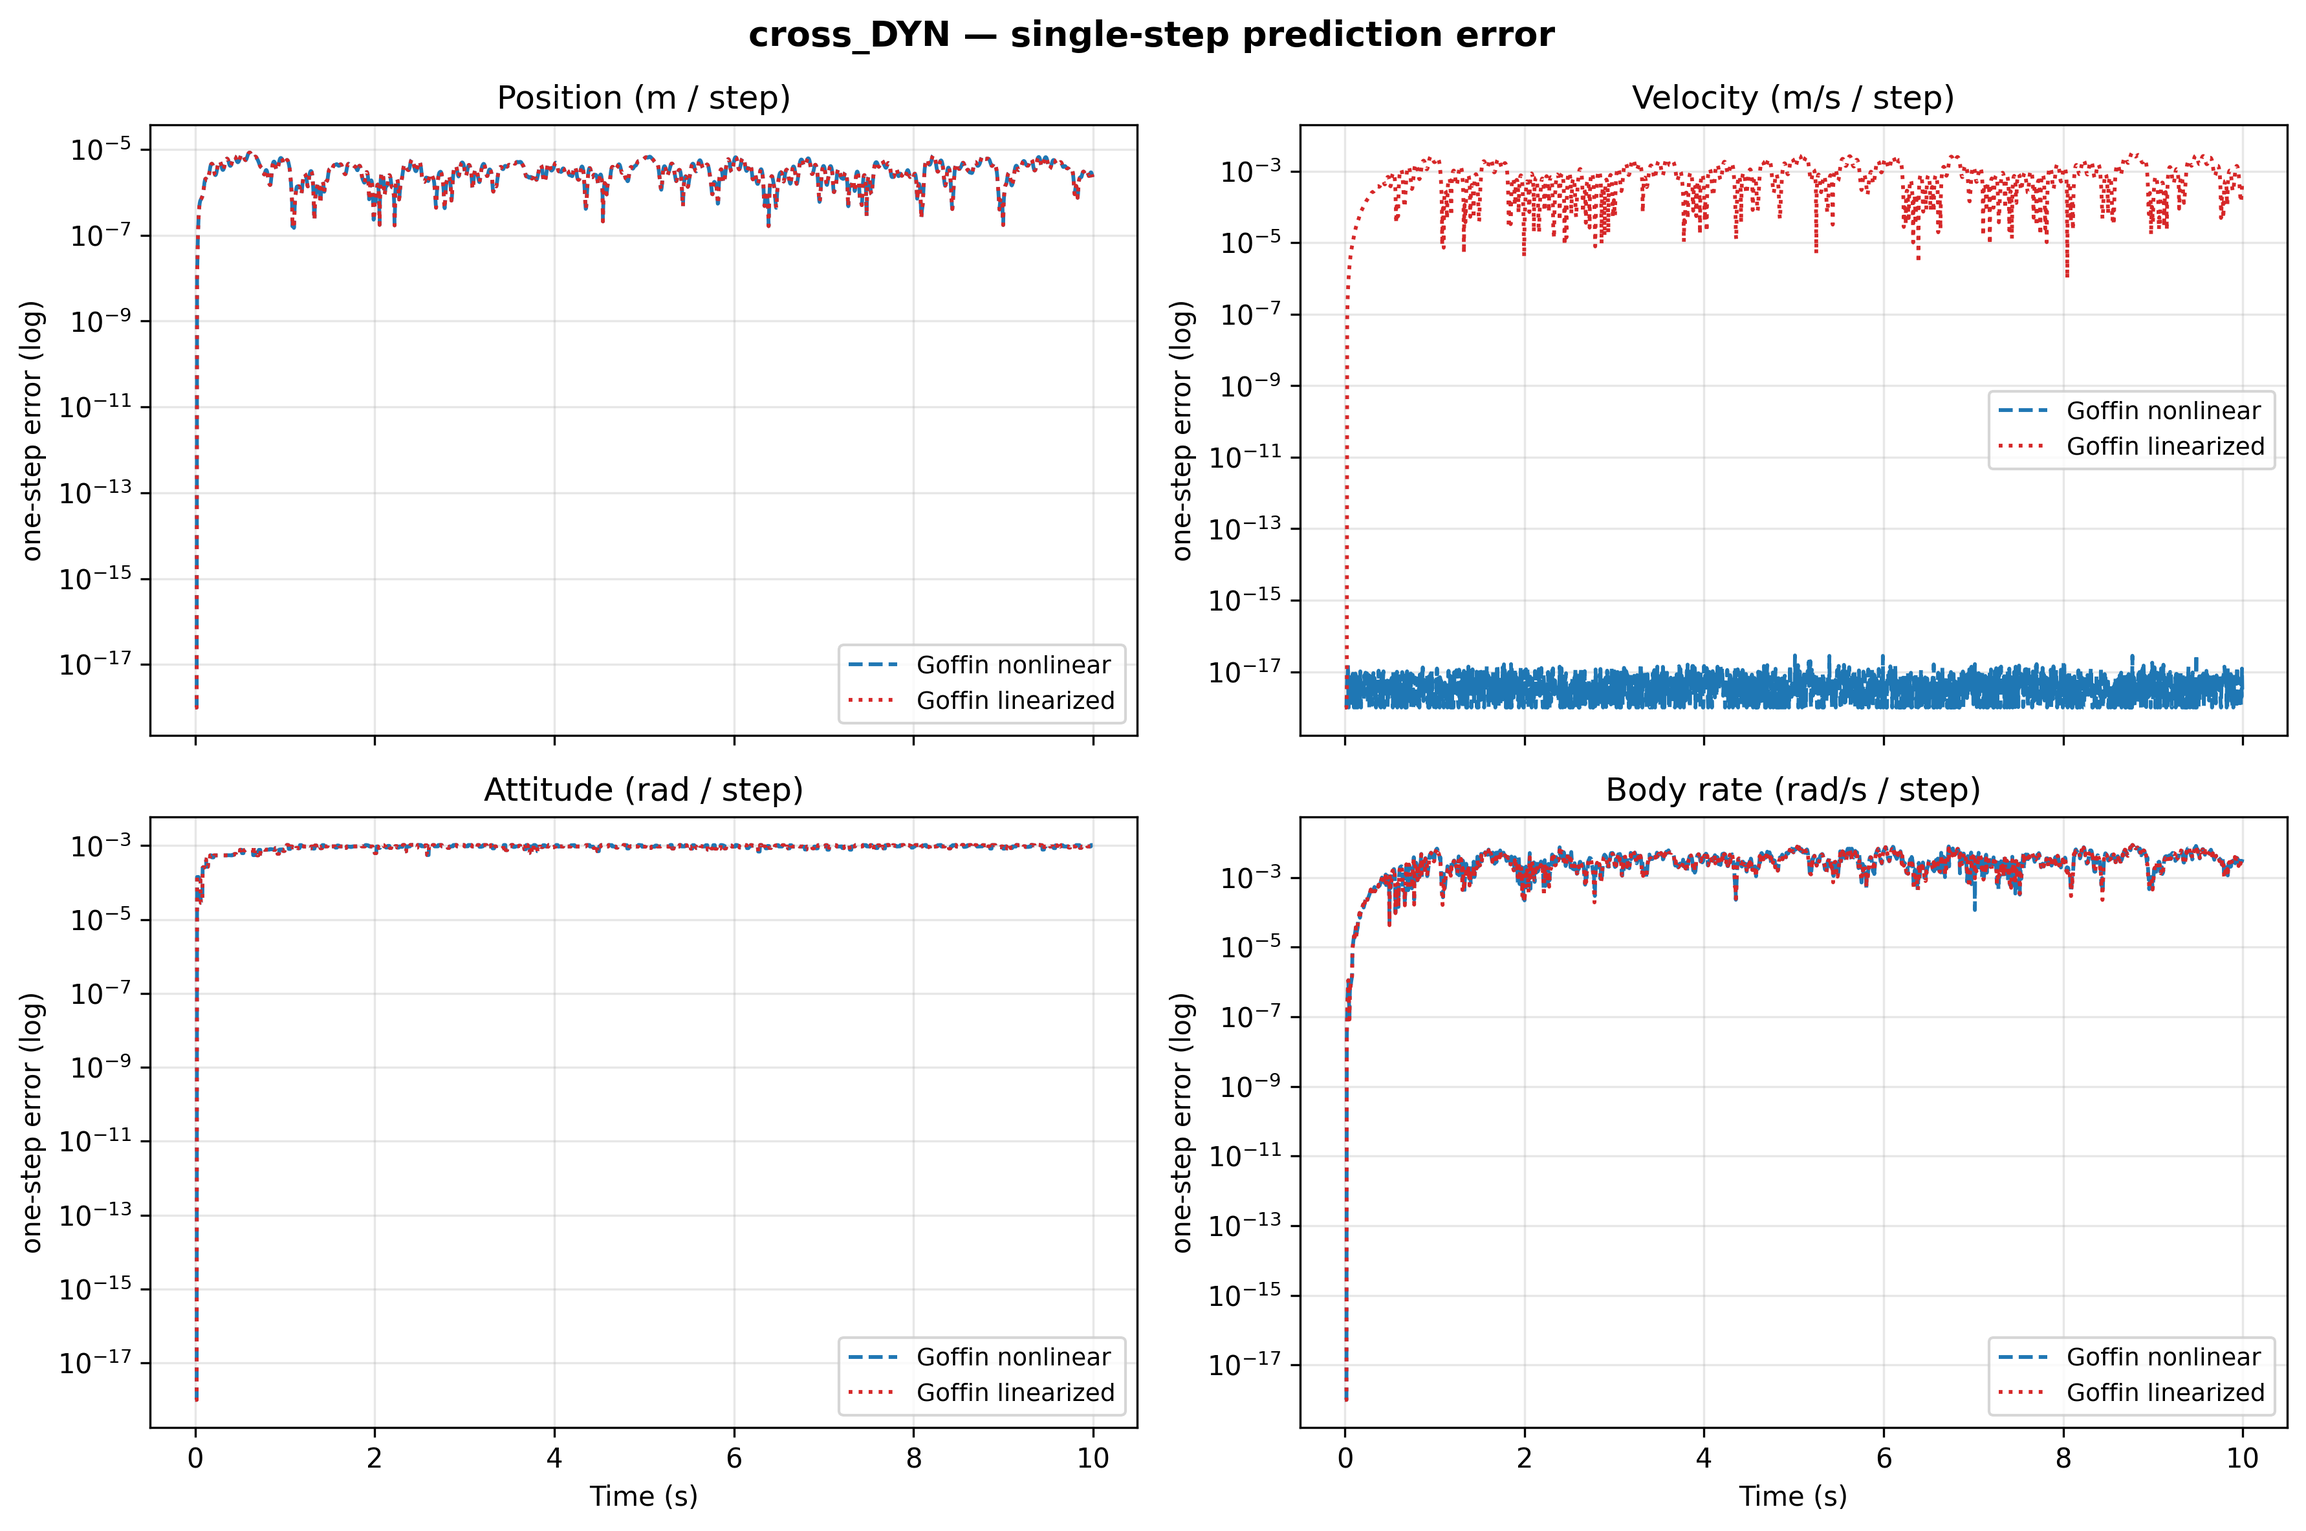
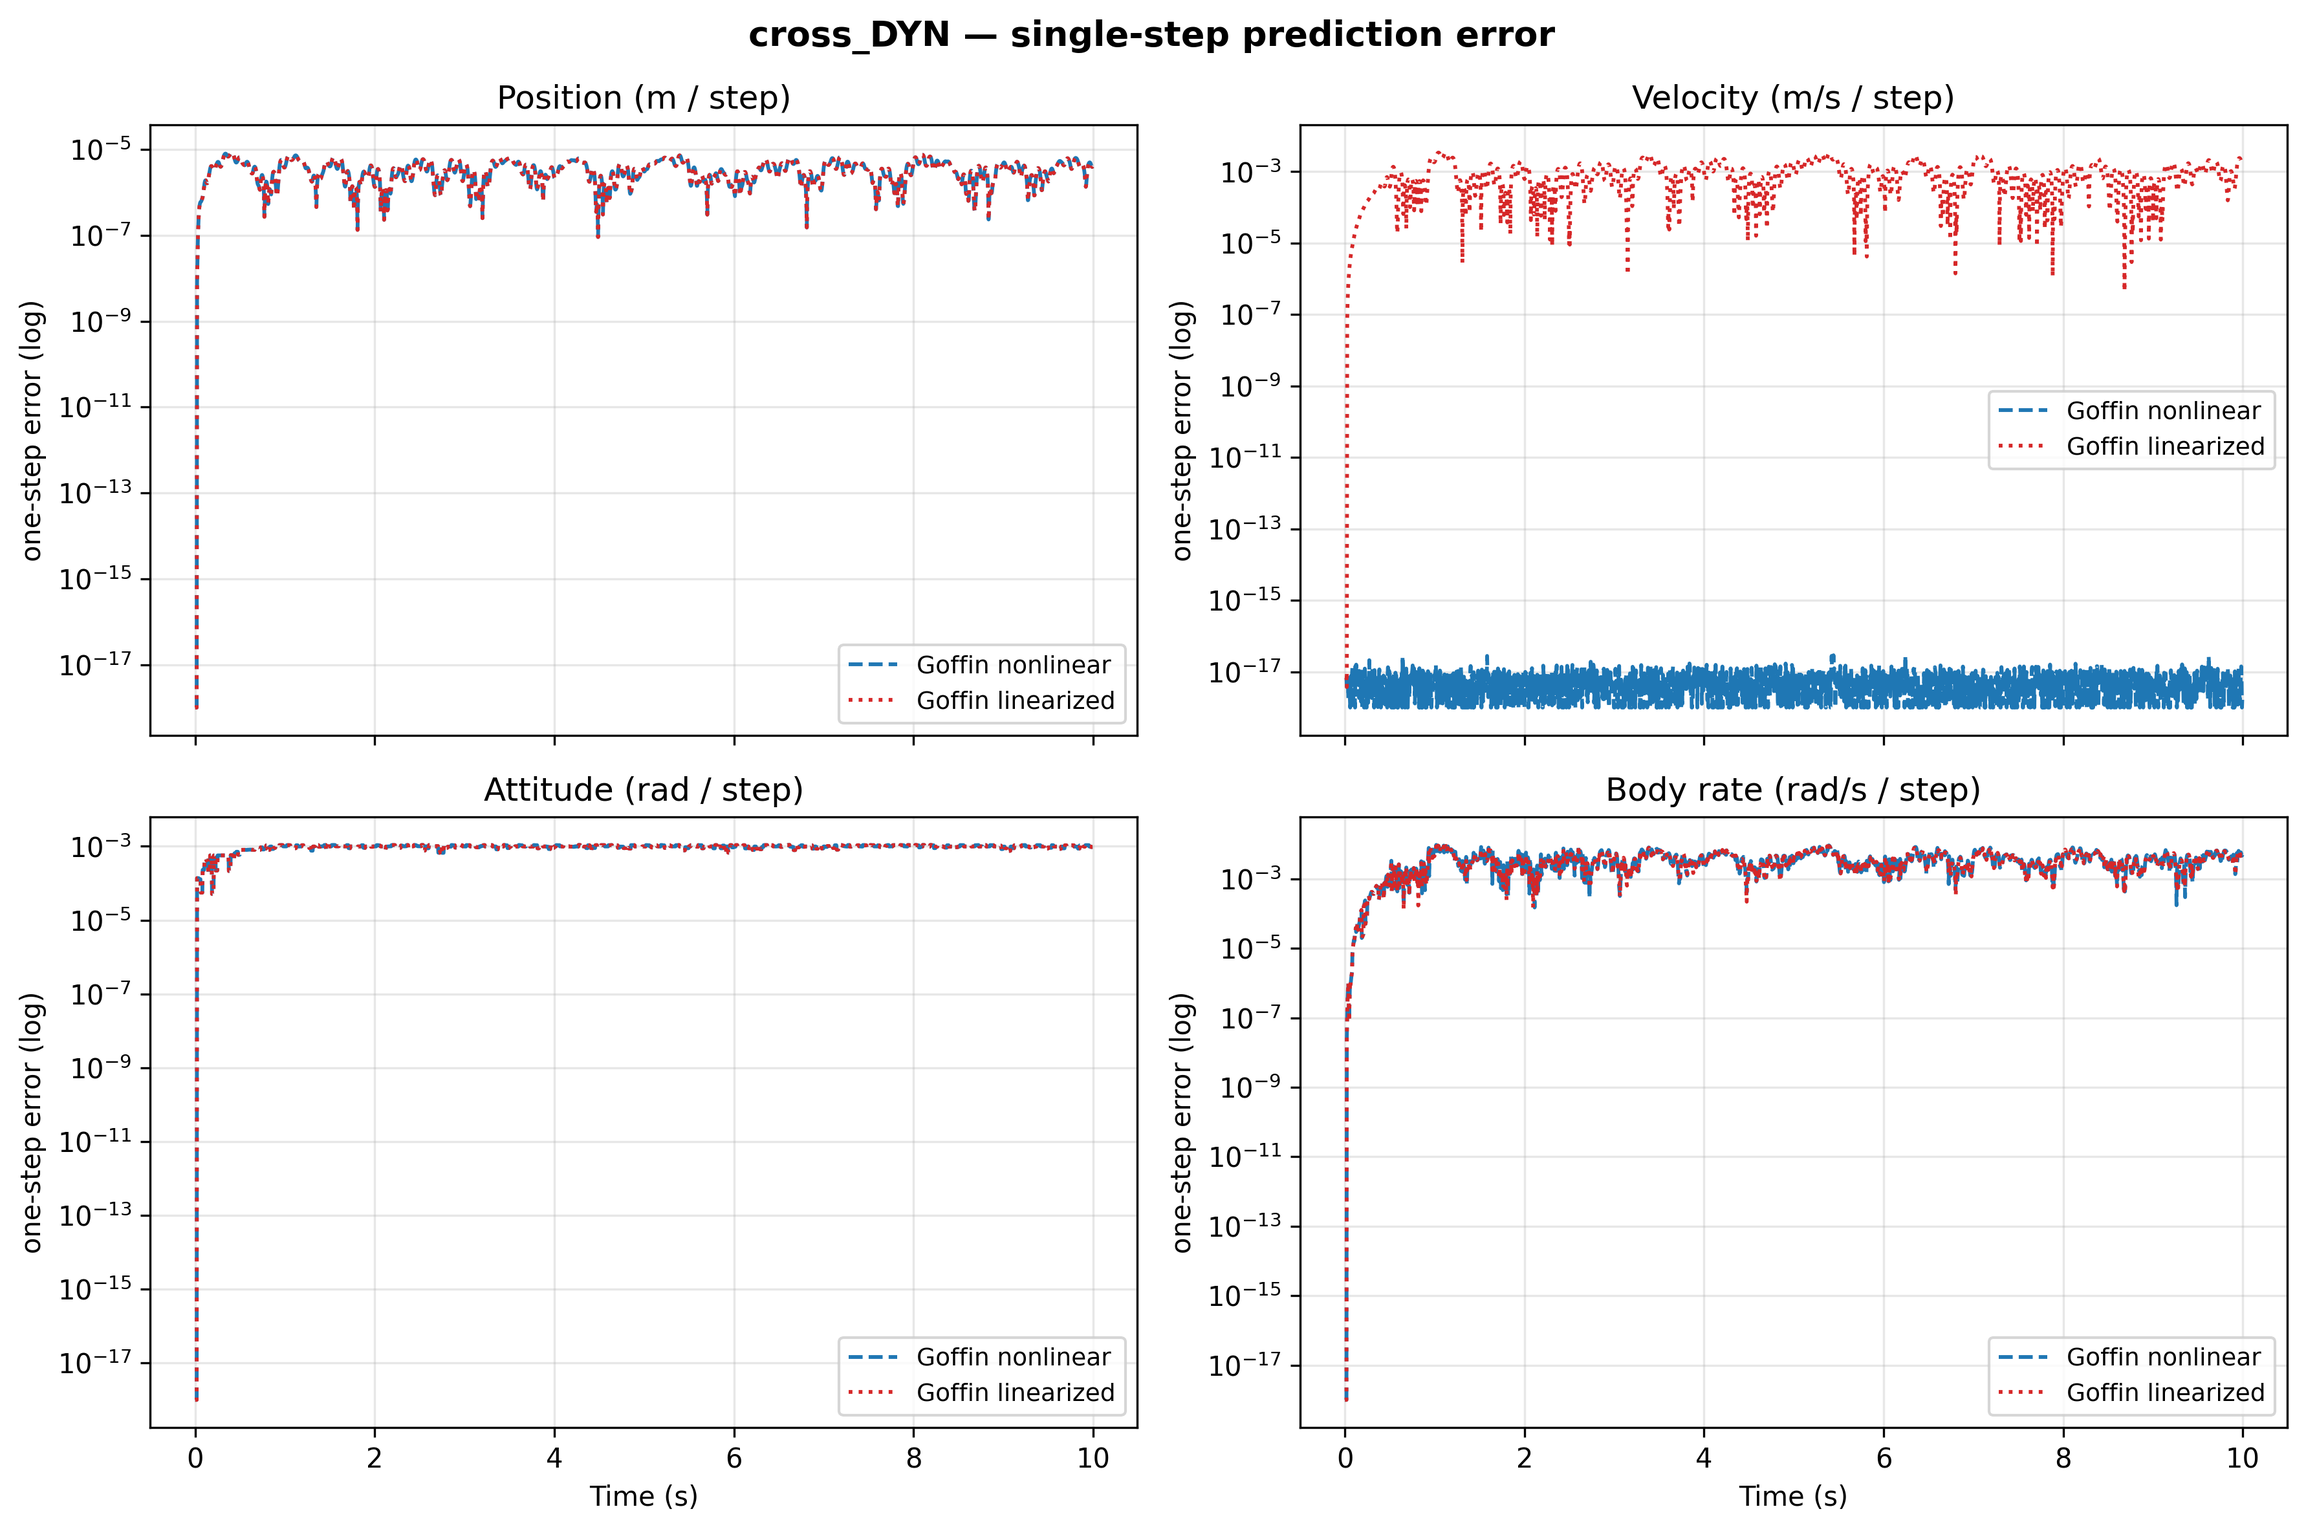
new plots for 29 grams instead of 27

diff --git a/Report_Latex_Overleaf/main.tex b/Report_Latex_Overleaf/main.tex
@@ -1180,10 +1180,10 @@ $10\,\mathrm{s}$ circle and overlays the result on the reference
 (Figure~\ref{fig:openloop_traj}, X-configuration, \texttt{DYN} mode). Two
 features stand out and, at first sight, seem contradictory: the roll and pitch
 angles of the nonlinear model stay glued to the reference for the entire flight,
-yet its horizontal position tracks well only for about the first half of the
-circle and then visibly decouples, drifting by $\sim 0.4\,\mathrm{m}$ by
-$t = 10\,\mathrm{s}$; the altitude, by contrast, drifts by barely
-$\sim 1\,\mathrm{mm}$. The linearized model follows the reference for roughly the
+yet its horizontal position tracks well only for about the first fourth of the
+circle and then visibly decouples, drifting by more than a metre by
+$t = 10\,\mathrm{s}$; the altitude, by contrast, drifts by only about a
+centimetre. The linearized model follows the reference for roughly the
 first two seconds and then spirals away entirely, as expected from the
 small-angle approximation once the integrated error leaves the hover
 neighbourhood.
@@ -1214,18 +1214,18 @@ therefore acts as a horizontal-acceleration error $g\,\delta\theta$ -- to
 \emph{first order} in the attitude error -- which is then integrated twice into
 the position.
 
-The attitude error between the two models stays below $\sim 10^{-2}\,\mathrm{rad}$
-for the whole flight, a few percent of the plotted range and hence invisible on
-the $\phi$/$\theta$ panels; yet the double time integral turns this almost
-invisible error into a horizontal drift of order $0.4\,\mathrm{m}$ by
+The attitude error between the two models stays of order $10^{-2}\,\mathrm{rad}$
+for the whole flight, a few percent of the plotted range and hence barely visible
+on the $\phi$/$\theta$ panels; yet the double time integral turns this almost
+invisible error into a horizontal drift of order one metre by
 $t = 10\,\mathrm{s}$, concentrated in the second half of the circle simply
 because a double integral grows steeply with time. To check that this is the
 \emph{entire} story, one can take the attitude error \emph{actually measured
 along the run}, convert it into the implied horizontal-acceleration error by
 multiplying by $g$, and integrate it twice in time; the result reproduces the
-observed position drift to within a few percent ($x$: $0.42\,\mathrm{m}$ from this
-double integral vs $0.42\,\mathrm{m}$ observed; $y$: $0.13$ vs
-$0.13\,\mathrm{m}$). The horizontal drift is thus, quantitatively, nothing but the
+observed position drift to within a few percent ($x$: $0.95\,\mathrm{m}$ from this
+double integral vs $0.95\,\mathrm{m}$ observed; $y$: $1.22$ vs
+$1.22\,\mathrm{m}$). The horizontal drift is thus, quantitatively, nothing but the
 twice-integrated attitude error.
 
 The altitude is spared because the attitude does not enter the vertical
@@ -1233,8 +1233,8 @@ acceleration at first order: $\ddot{z} = (F/m)\cos\phi\cos\theta - g$ depends on
 the tilt only through $\cos\phi\cos\theta \simeq 1 - \tfrac{1}{2}(\phi^2+\theta^2)$,
 so the same small attitude error perturbs $\ddot{z}$ only at \emph{second} order
 in the angles -- a far weaker effect than the first-order horizontal coupling
-$g\,\delta\theta$. Its double integral consequently stays at the millimetre level,
-more than two orders of magnitude below the horizontal drift, as
+$g\,\delta\theta$. Its double integral consequently stays at the centimetre level,
+about two orders of magnitude below the horizontal drift, as
 Figure~\ref{fig:openloop_traj} shows. This is precisely the regime in which an
 open-loop trajectory comparison is misleading: it conflates the per-step dynamics
 mismatch with its double-integrated accumulation, and the latter -- amplified by
@@ -1270,7 +1270,7 @@ trajectory for the three physics back-ends.
     \caption{Single-step prediction error~\eqref{eq:single_step_err} for the
     X-configuration in \texttt{DYN} mode, grouped by state type and shown on a
     logarithmic scale. The velocity error of the \emph{nonlinear} model (blue)
-    sits at the level of floating-point round-off ($\sim 10^{-17}$), proving that
+    sits at the level of floating-point round-off ($\sim 10^{-18}$), proving that
     the translational equations of the simulator and of Goffin's model are
     identical; the linearized model (red) incurs a $\sim 10^{-4}\,\mathrm{m/s}$
     error from the small-angle approximation. Position, attitude and body-rate
@@ -1295,7 +1295,7 @@ maps onto a modelling choice discussed in Section~\ref{sec:dynamics}.
     (forward Euler). Since the velocity itself agrees to machine precision (next
     item), the single-step position error solely depends on the integration scheme.
     \item \textbf{Velocity.} For the nonlinear model in \texttt{DYN} mode the
-    error is at machine precision ($3.4\times10^{-18}\,\mathrm{m/s}$,
+    error is at machine precision ($3.8\times10^{-18}\,\mathrm{m/s}$,
     Table~\ref{tab:singlestep_rms}). The translational acceleration
     $\tfrac{F}{m}\,R(\phi,\theta,\psi)\hat{z} - g\hat{z}$ depends on the attitude
     \emph{angles} and the thrust, not on the angular rates -- so the
@@ -1335,12 +1335,12 @@ maps onto a modelling choice discussed in Section~\ref{sec:dynamics}.
         \toprule
         Physics & Model & Pos.\ (m) & Vel.\ (m/s) & Att.\ (rad) & Rate (rad/s) \\
         \midrule
-        \texttt{DYN} & nonlin. & $2.07\!\times\!10^{-6}$ & $3.4\!\times\!10^{-18}$ & $5.36\!\times\!10^{-4}$ & $2.01\!\times\!10^{-3}$ \\
-        \texttt{DYN} & linear. & $2.07\!\times\!10^{-6}$ & $6.48\!\times\!10^{-4}$ & $5.36\!\times\!10^{-4}$ & $1.96\!\times\!10^{-3}$ \\
-        \texttt{PYB} & nonlin. & $2.19\!\times\!10^{-6}$ & $5.52\!\times\!10^{-5}$ & $5.38\!\times\!10^{-4}$ & $2.12\!\times\!10^{-3}$ \\
-        \texttt{PYB} & linear. & $2.19\!\times\!10^{-6}$ & $6.82\!\times\!10^{-4}$ & $5.38\!\times\!10^{-4}$ & $2.07\!\times\!10^{-3}$ \\
-        \texttt{PYB+aero} & nonlin. & $2.12\!\times\!10^{-6}$ & $1.25\!\times\!10^{-4}$ & $5.40\!\times\!10^{-4}$ & $2.17\!\times\!10^{-3}$ \\
-        \texttt{PYB+aero} & linear. & $2.12\!\times\!10^{-6}$ & $6.98\!\times\!10^{-4}$ & $5.40\!\times\!10^{-4}$ & $2.12\!\times\!10^{-3}$ \\
+        \texttt{DYN} & nonlin. & $2.22\!\times\!10^{-6}$ & $3.8\!\times\!10^{-18}$ & $5.62\!\times\!10^{-4}$ & $2.29\!\times\!10^{-3}$ \\
+        \texttt{DYN} & linear. & $2.22\!\times\!10^{-6}$ & $6.82\!\times\!10^{-4}$ & $5.62\!\times\!10^{-4}$ & $2.25\!\times\!10^{-3}$ \\
+        \texttt{PYB} & nonlin. & $2.17\!\times\!10^{-6}$ & $5.67\!\times\!10^{-5}$ & $5.62\!\times\!10^{-4}$ & $2.28\!\times\!10^{-3}$ \\
+        \texttt{PYB} & linear. & $2.17\!\times\!10^{-6}$ & $6.85\!\times\!10^{-4}$ & $5.62\!\times\!10^{-4}$ & $2.22\!\times\!10^{-3}$ \\
+        \texttt{PYB+aero} & nonlin. & $2.17\!\times\!10^{-6}$ & $1.23\!\times\!10^{-4}$ & $5.56\!\times\!10^{-4}$ & $2.29\!\times\!10^{-3}$ \\
+        \texttt{PYB+aero} & linear. & $2.17\!\times\!10^{-6}$ & $7.27\!\times\!10^{-4}$ & $5.56\!\times\!10^{-4}$ & $2.24\!\times\!10^{-3}$ \\
         \bottomrule
     \end{tabular}
 \end{table}
@@ -1351,11 +1351,11 @@ Table~\ref{tab:singlestep_rms} also quantifies the effect of the physics
 back-end. In \texttt{PYB} mode the nonlinear velocity error rises from machine
 precision to $\sim 5\times10^{-5}\,\mathrm{m/s}$ per step, and adding the
 empirical aerodynamic corrections (\texttt{PYB\_GND\_DRAG\_DW}, labelled
-\texttt{PYB+aero}) raises it further to $\sim 1.3\times10^{-4}\,\mathrm{m/s}$.
+\texttt{PYB+aero}) raises it further to $\sim 1.2\times10^{-4}\,\mathrm{m/s}$.
 This is expected: unlike \texttt{DYN}, the general-purpose Bullet constraint
 solver does not integrate exactly the same equations, and the aerodynamic models
 add genuine physics that Goffin's model omits. The discrepancy nonetheless
-remains three to four orders of magnitude below the linearization error, so even
+stays below the per-step error already incurred by the linearization, so even
 \texttt{PYB} stays close to the analytical model. The position, attitude and
 body-rate errors are insensitive to the physics mode, as they are governed by the
 integration scheme and the angle representation rather than by the force model.
@@ -1519,9 +1519,69 @@ real-world experiments (Section~\ref{sec:nn_results}).
 % =====================================================
 \newpage
 \section{Sim-to-Real Validation}\label{sec:simreal}
-\subsection{Experimental Setup}
-\subsection{Flowdeck vs Lighthouse}
-\subsection{Circle Trajectory: Simulation vs Reality}
+
+Having built a closed-loop simulator that pairs the faithful \texttt{DYN} dynamics
+with a Python port of the on-board controller
+(Section~\ref{sec:firmware_integration}), we now confront it with the physical
+platform. This chapter describes the experimental hardware
+(Section~\ref{sec:exp_setup}), compares the two positioning systems that were
+available (Section~\ref{sec:flowdeck_lighthouse}), and quantifies the agreement
+between simulation and reality on a circular trajectory
+(Section~\ref{sec:circle_simreal}).
+
+\subsection{Experimental Setup}\label{sec:exp_setup}
+
+\subsubsection*{Platform}
+
+The hardware is a Bitcraze Crazyflie~2.1+, an open-source nano-quadcopter of about
+$29\,\mathrm{g}$ in the X-configuration, driven by four brushed coreless DC motors.
+Its physical parameters --- mass, arm length, and the thrust and drag coefficients
+--- are the ones introduced in Section~\ref{sec:dynamics}, and the simulation uses
+the matching rigid-body model, so that the simulated and the real drone share the
+same nominal dynamics by construction. The drone carries, on top or below, the positioning
+deck described below.
+
+\subsubsection*{On-board control and state estimation}
+
+All low-level control runs on the drone's microcontroller: the cascade-PID firmware
+of Sections~\ref{sec:cascade_pid} and~\ref{sec:firmware_integration}, with its
+position and velocity loops at $100\,\mathrm{Hz}$, its attitude and attitude-rate
+loops at $500\,\mathrm{Hz}$, and a $1\,\mathrm{kHz}$ main loop. A MEMS inertial
+measurement unit supplies three-axis gyroscope readings --- the body rates
+$\omega_B$ of Section~\ref{sec:dynamics} --- and accelerometer readings, which an
+on-board extended Kalman filter fuses with the external positioning measurements
+(below) into the full state estimate (position, velocity, attitude) used both by
+the controller and for logging. The drone accepts setpoints at any level of the
+cascade through its radio protocol.
+
+\subsubsection*{Host link and logging}
+
+Each experiment is commanded from a host PC over a $2.4\,\mathrm{GHz}$
+Crazyradio~2.0 USB link using the Bitcraze Python library: the PC streams setpoints
+to the drone, and the drone streams its on-board state estimate (together with the
+raw gyroscope) back, which is recorded for the offline comparison with simulation.
+In this chapter no part of the controller runs on the PC --- the drone flies
+entirely under its own firmware --- so the host acts purely as a command-and-
+logging interface.
+
+\subsubsection*{Positioning systems}
+
+The Kalman filter needs an absolute position reference, which neither the
+accelerometer nor the gyroscope can provide on their own. Two systems were
+evaluated, each feeding the same on-board filter:
+\begin{itemize}
+    \item the \emph{Flowdeck}, a downward-facing deck that combines an optical-flow
+    camera --- which senses horizontal velocity from the apparent motion of the
+    ground --- with a time-of-flight laser rangefinder for height;
+    \item the \emph{Lighthouse}, which recovers an absolute six-degree-of-freedom
+    pose from the infrared sweeps of three Lighthouse~V2 base stations, picked up by
+    an on-board receiver deck, at sub-millimetre and sub-degree accuracy.
+\end{itemize}
+Their relative reliability, and the reason the Lighthouse was retained for the
+flight experiments, are the subject of Section~\ref{sec:flowdeck_lighthouse}.
+
+\subsection{Flowdeck vs Lighthouse}\label{sec:flowdeck_lighthouse}
+\subsection{Circle Trajectory: Simulation vs Reality}\label{sec:circle_simreal}
 
 % =====================================================
 \newpage

diff --git a/crazyflie_firmware/constants.py b/crazyflie_firmware/constants.py
@@ -23,7 +23,7 @@ POSITION_UPDATE_DT = 1.0 / POSITION_RATE   # 0.01  s
 # ===================================================================
 # [FW] src/platform/interface/platform_defaults_cf2.h:47,56
 ARM_LENGTH = 0.046       # m
-CF_MASS    = 0.027       # kg  (CF2X URDF uses 0.027)
+CF_MASS    = 0.029       # kg  (CF2X URDF uses 0.029)
 UINT16_MAX = 65535
 
 # ===================================================================

diff --git a/training_regulation_simu_and_real/train_nn_cf_pid.py b/training_regulation_simu_and_real/train_nn_cf_pid.py
@@ -40,7 +40,7 @@ if PARENT_DIR not in sys.path:
 # 1. Physical Constants  (CF2X — from gym-pybullet-drones URDF)
 # =====================================================================
 
-M   = 0.027        # mass [kg]
+M   = 0.029        # mass [kg]
 G   = 9.8          # gravity [m/s^2]
 I_X = 1.4e-5       # Ixx [kg*m^2]
 I_Y = 1.4e-5       # Iyy

diff --git a/maml_lib/config.py b/maml_lib/config.py
@@ -32,7 +32,7 @@ from crazyflie_firmware.constants import (  # noqa: E402
 )
 
 # ---- Physical (CF2X URDF, baseline drone) ----
-M_BASE = 0.027        # baseline mass [kg]
+M_BASE = 0.029        # baseline mass [kg]
 G      = 9.8          # gravity [m/s^2]
 I_X    = 1.4e-5       # Ixx [kg*m^2]
 I_Y    = 1.4e-5
